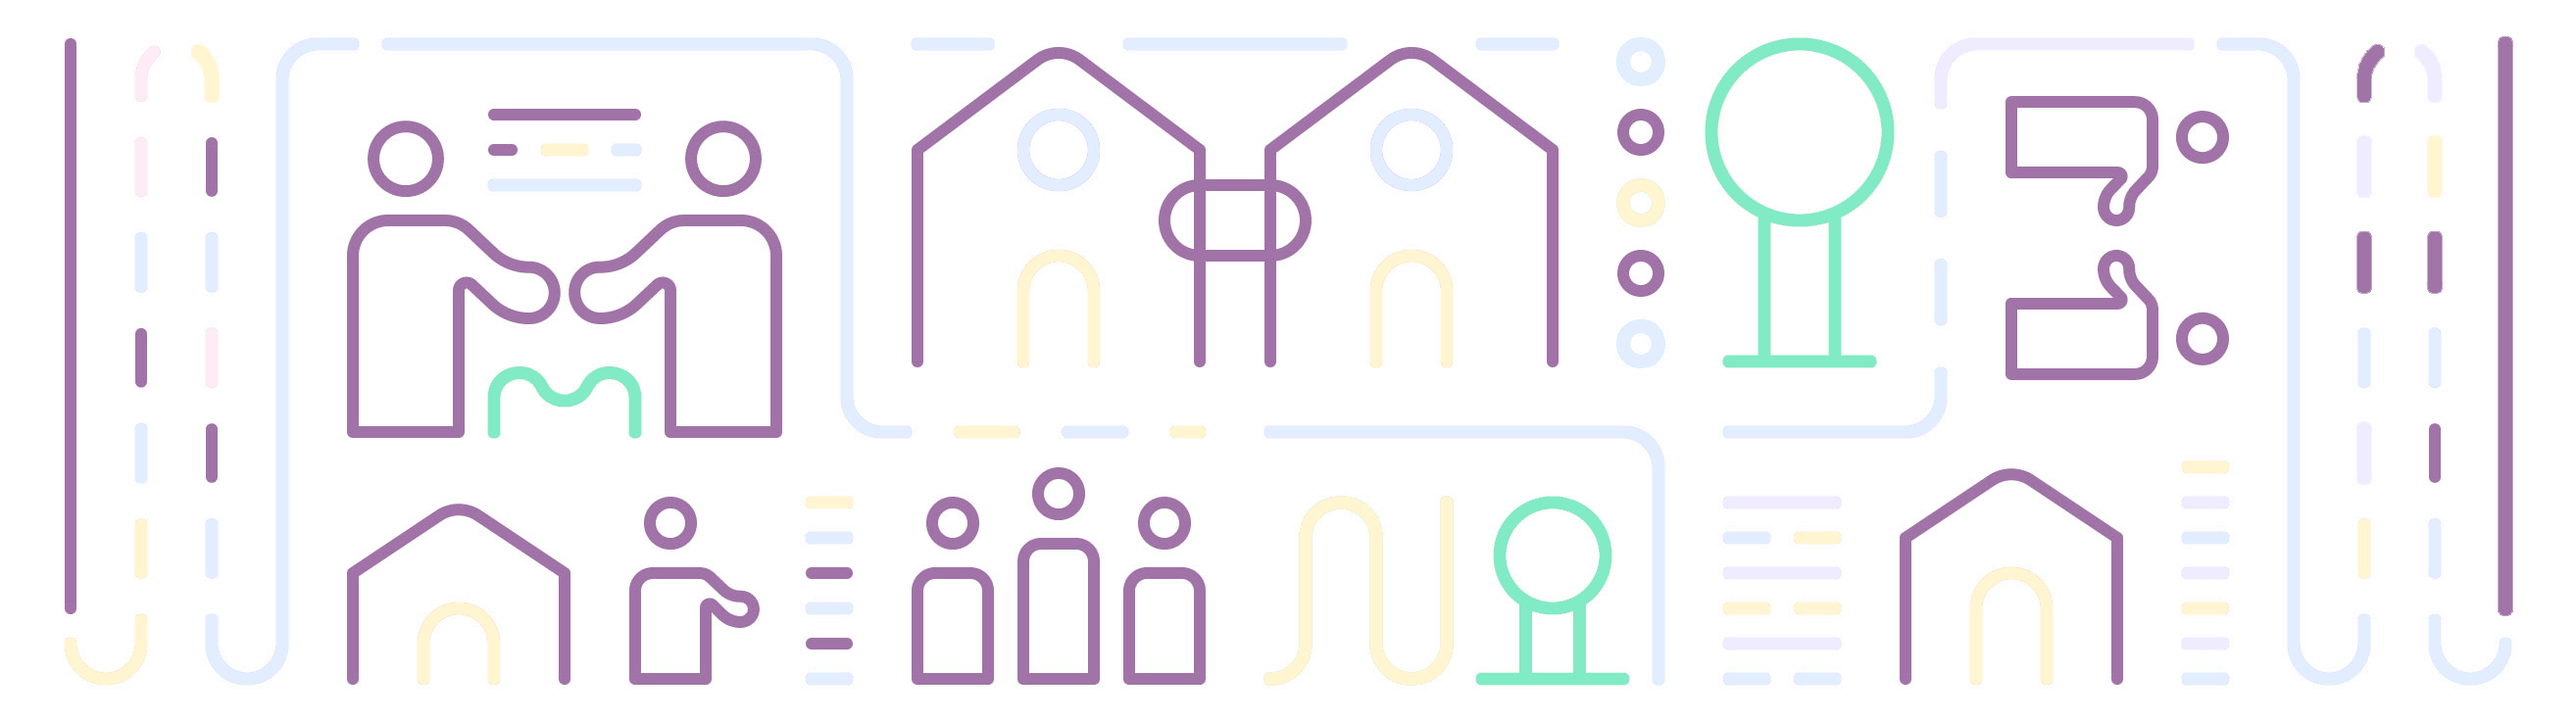
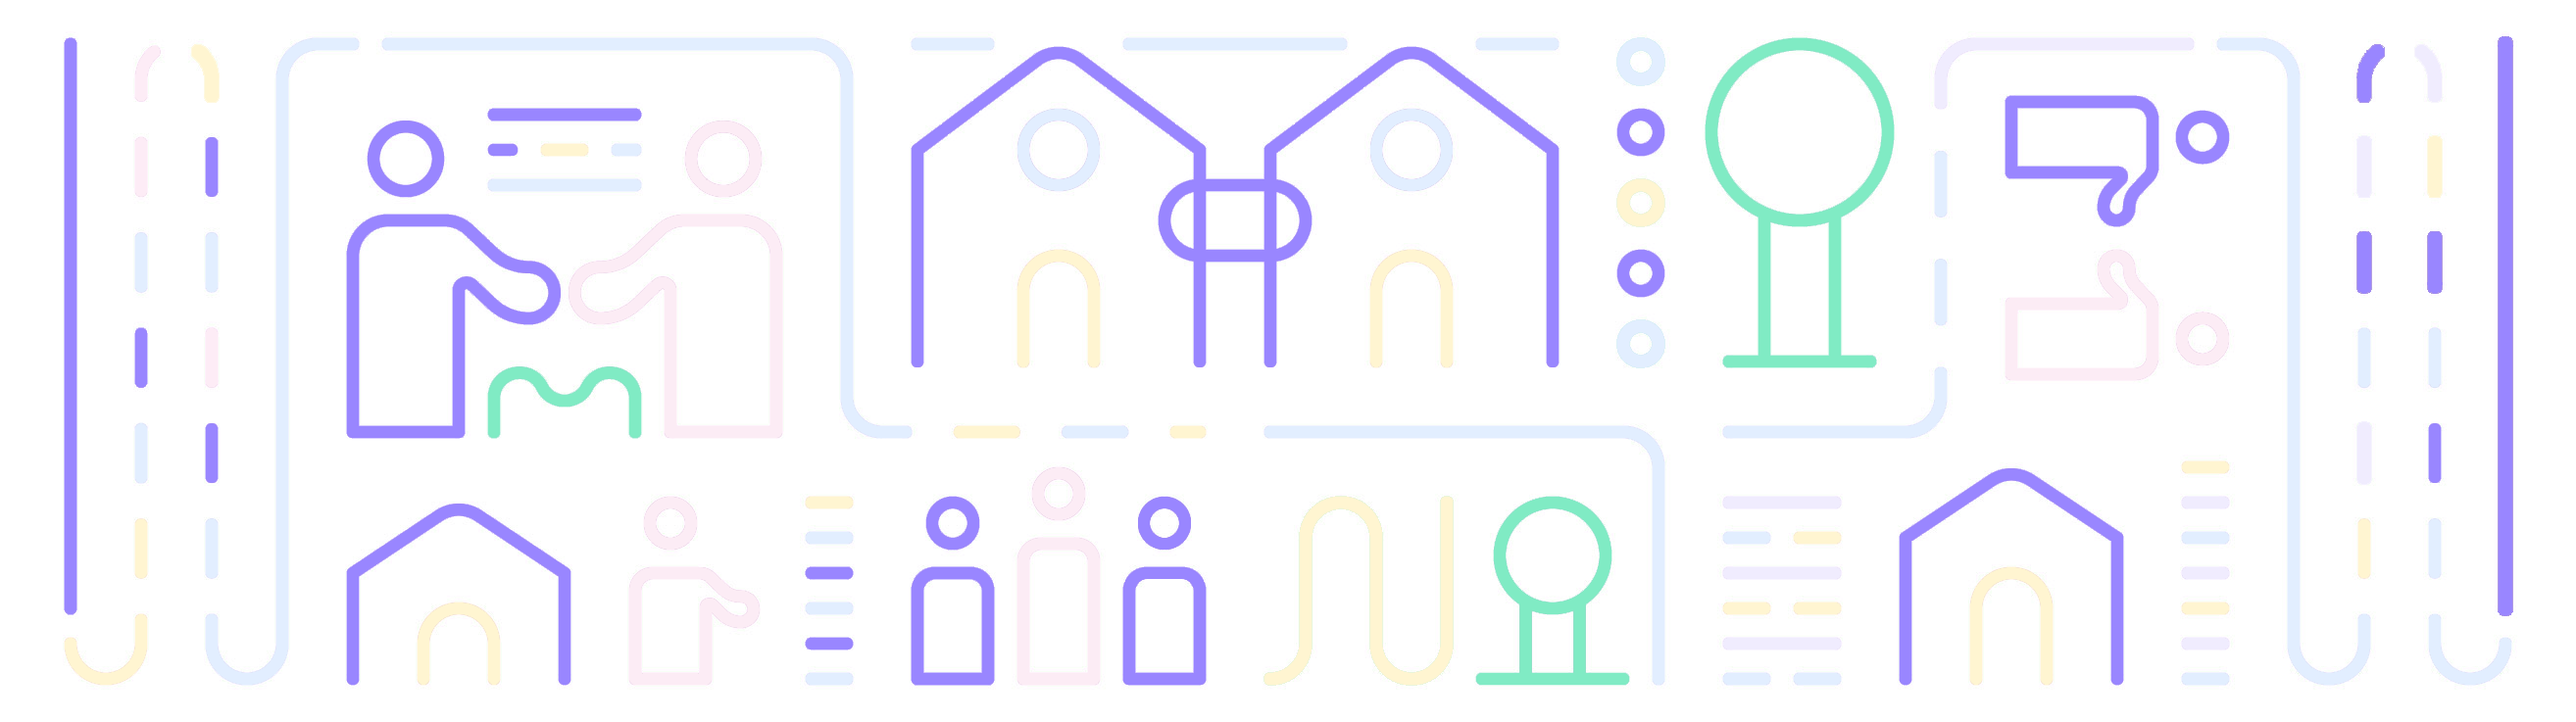
updates

diff --git a/tailwind.config.js b/tailwind.config.js
@@ -47,10 +47,10 @@ const merged = windmill({
         medium: "#8B5CF6",
         dark: "#6D28D9"
       },
-      // updated -- green 100 600
+      // updated -- green 100 200
       yellow: {
-        light: "#6EE7B7",
-        DEFAULT: "#6EE7B7",
+        light: "#A7F3D0",
+        DEFAULT: "#A7F3D0",
         dark: "#047857"
       },
       red: "#C70000",
@@ -211,15 +211,15 @@ merged.theme.colors = {
     900: "#6D28D9"
   },
   yellow: {
-    light: "#6EE7B7",
-    DEFAULT: "#6EE7B7",
+    light: "#A7F3D0",
+    DEFAULT: "#A7F3D0",
     dark: "#047857",
-    50: "#6EE7B7",
-    100: "#6EE7B7",
-    200: "#6EE7B7",
-    300: "#6EE7B7",
-    400: "#6EE7B7",
-    500: "#6EE7B7",
+    50: "#A7F3D0",
+    100: "#A7F3D0",
+    200: "#A7F3D0",
+    300: "#A7F3D0",
+    400: "#A7F3D0",
+    500: "#A7F3D0",
     600: "#047857",
     700: "#047857",
     800: "#047857",

diff --git a/src/Compass.jsx b/src/Compass.jsx
@@ -7,7 +7,7 @@ import CompassSvg from "../public/CIVIC_COMPASS.svg";
 
 function Compass() {
   return (
-    <div className="m-12 mt-20 mb-36 max-w-4xl mx-auto px-12 prose font-rubik">
+  <div className="m-12 mt-20 mb-36 max-w-4xl mx-auto px-12 prose font-rubik">
       <div className="flex items-center text-gray-900 mb-4">
         <svg
           className="h-6 w-6 mr-3"
